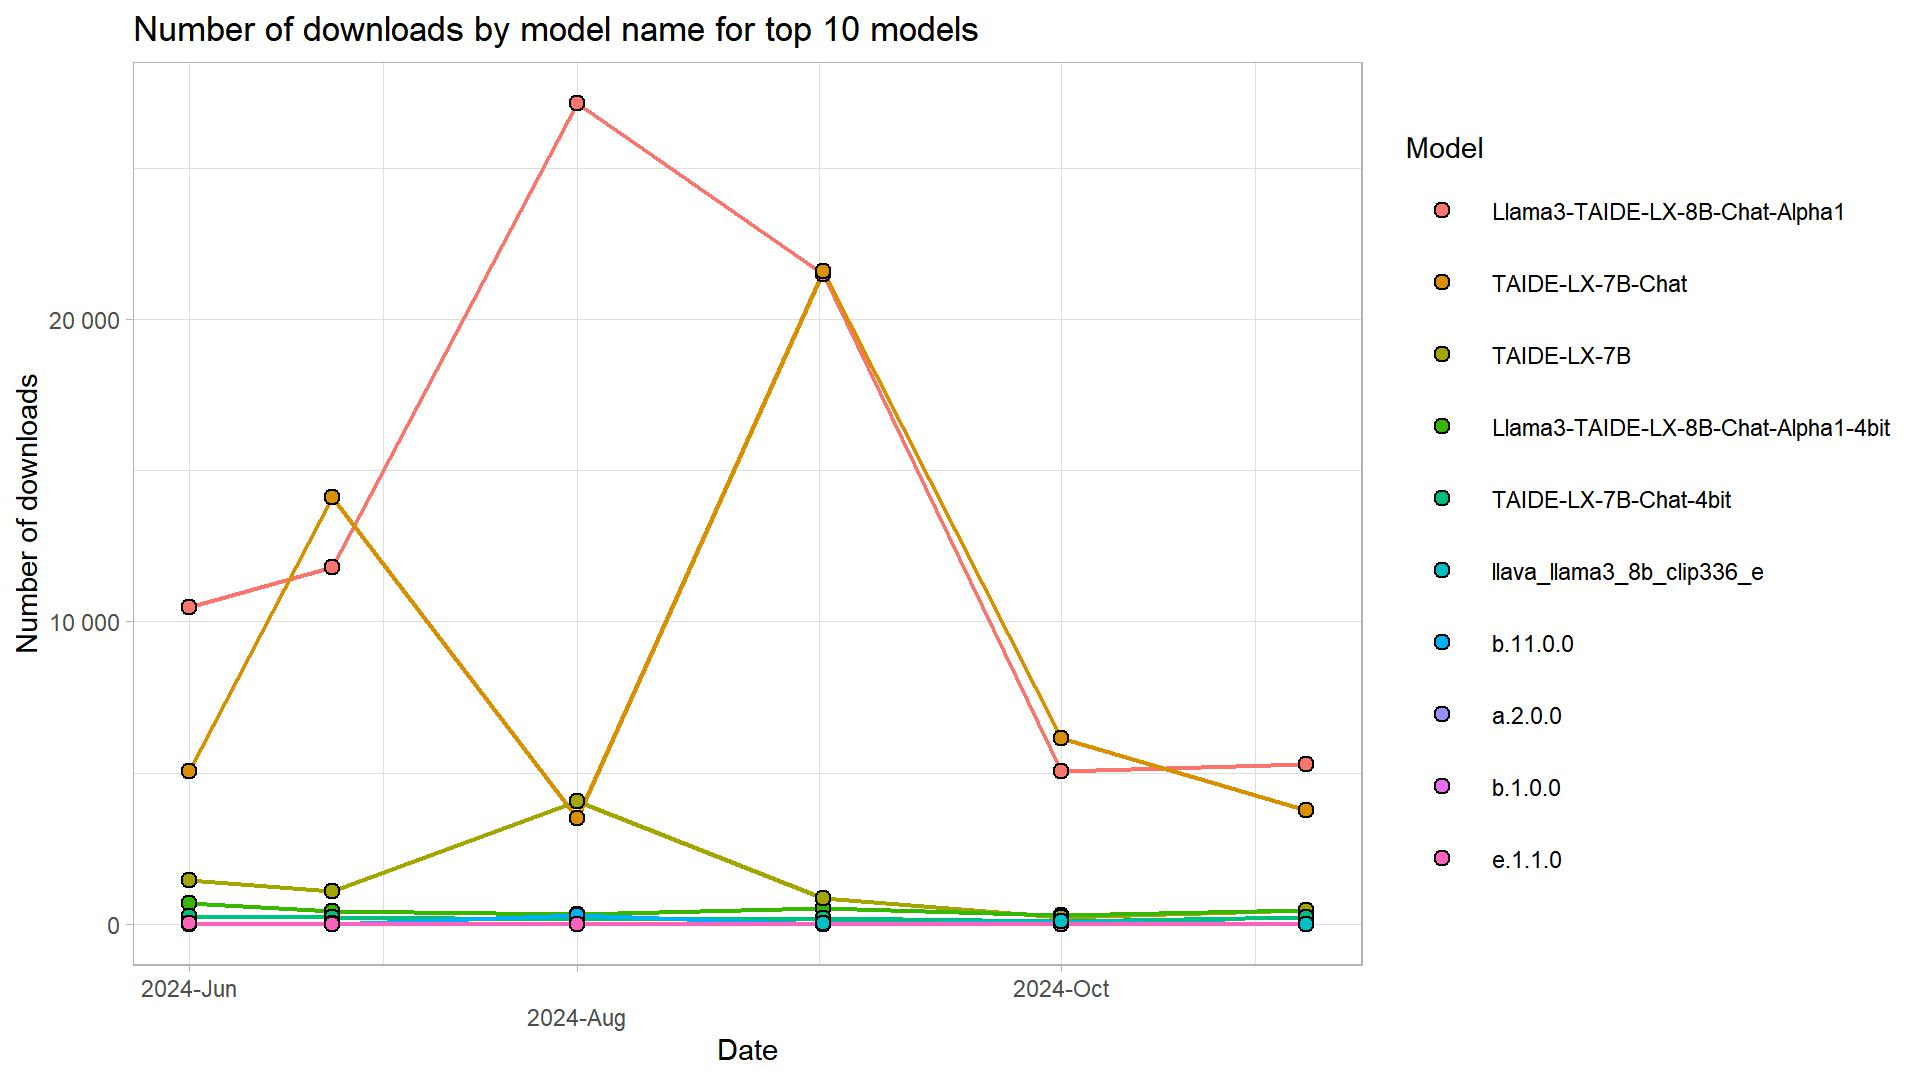
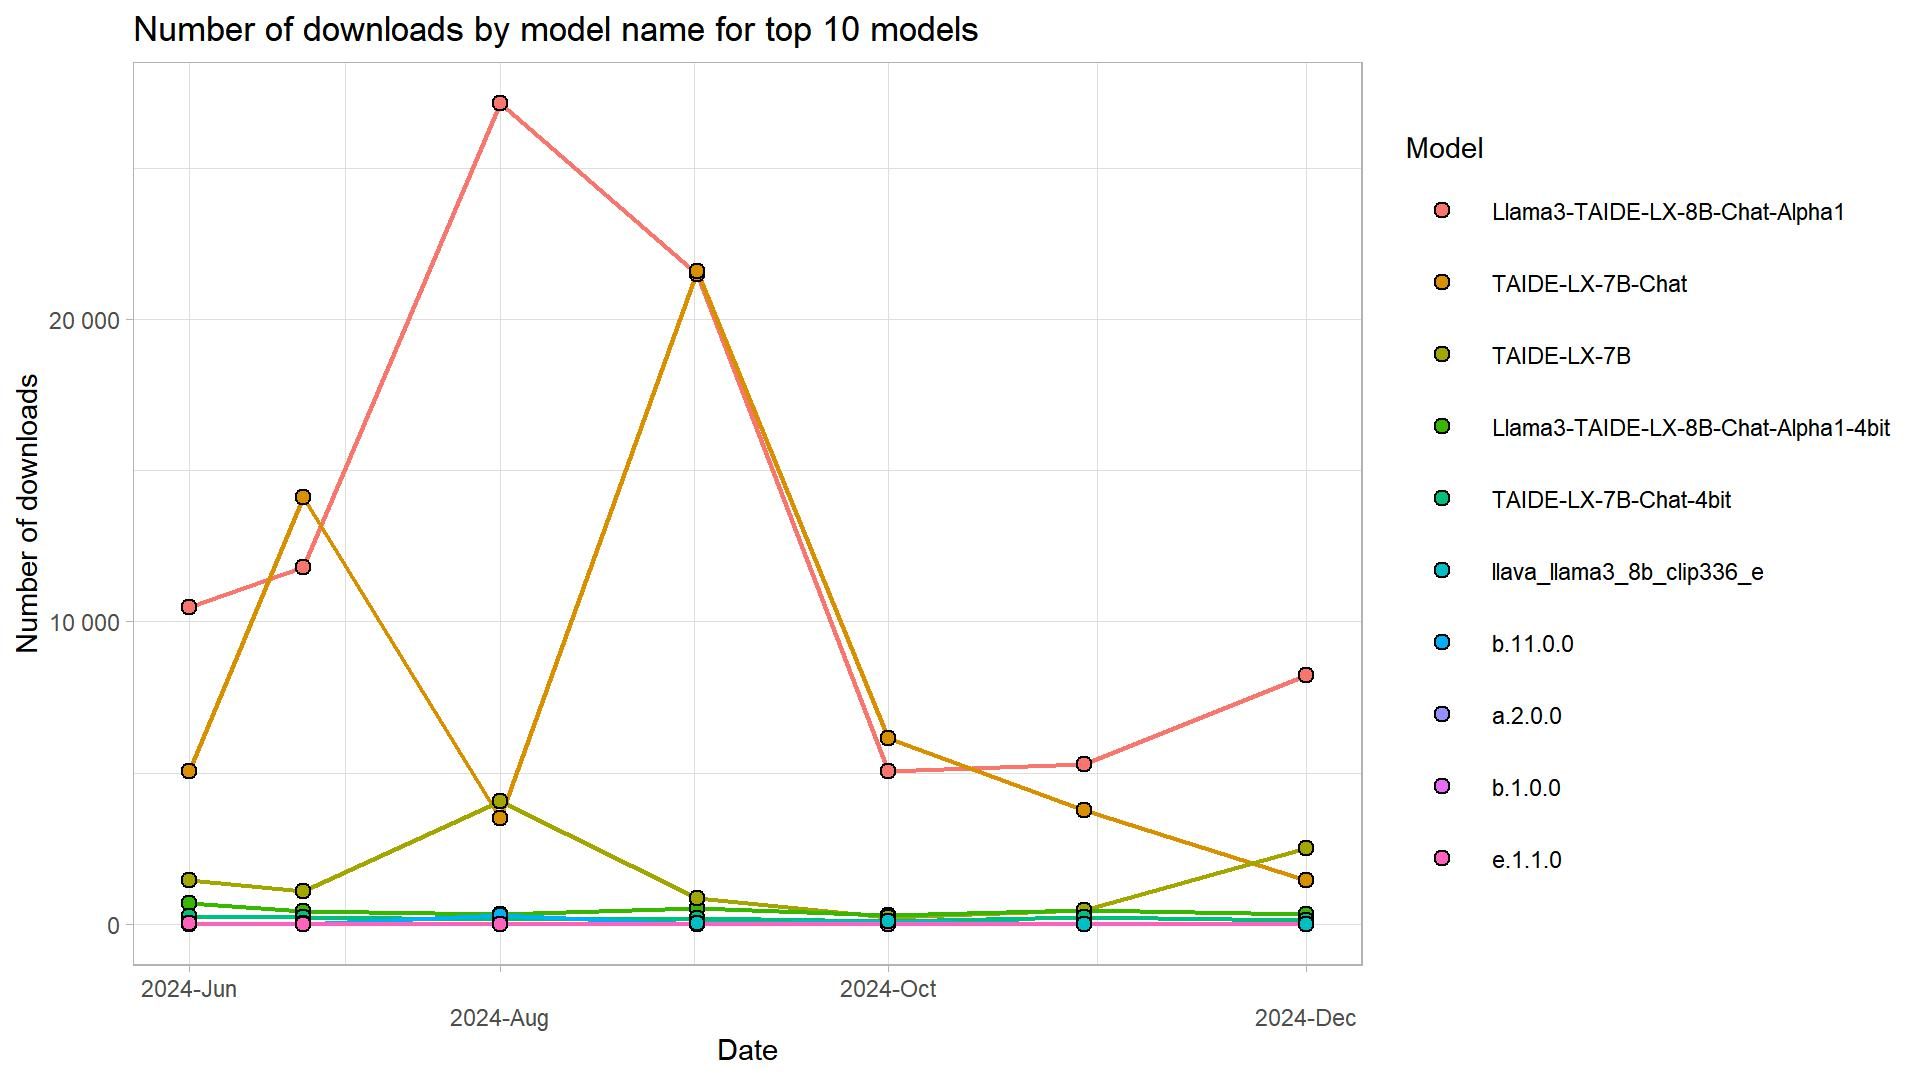
Update

diff --git a/README.md b/README.md
@@ -12,15 +12,15 @@ Script is run monthly, and a monthly `csv`-file outputted to `/data` folder.
 
 ## Table of downloads
 
-|model_name                          | downloadsAllTime| 2024-06| 2024-07| 2024-08| 2024-09| 2024-10| 2024-11|
-|:-----------------------------------|----------------:|-------:|-------:|-------:|-------:|-------:|-------:|
-|Llama3-TAIDE-LX-8B-Chat-Alpha1      |            88912|   10491|   11808|   27164|   21499|    5042|    5272|
-|TAIDE-LX-7B-Chat                    |            58339|    5059|   14122|    3495|   21600|    6130|    3774|
-|TAIDE-LX-7B                         |             9268|    1454|    1098|    4063|     860|     215|     463|
-|Llama3-TAIDE-LX-8B-Chat-Alpha1-4bit |             3748|     671|     412|     324|     527|     301|     444|
-|TAIDE-LX-7B-Chat-4bit               |             2151|     259|     208|     148|     194|     107|     217|
-|b.11.0.0                            |             1426|      36|       5|     302|       7|       0|       5|
-|b.1.0.0                             |              828|       0|      15|       0|       0|       0|       0|
-|a.2.0.0                             |              131|      24|       0|       0|       0|       0|       0|
-|llava_llama3_8b_clip336_e           |              115|      NA|      NA|      NA|      34|      81|       0|
-|e.1.1.0                             |               69|      14|       0|       5|       0|       0|       0|
+|model_name                          | downloadsAllTime| 2024-06| 2024-07| 2024-08| 2024-09| 2024-10| 2024-11| 2024-12|
+|:-----------------------------------|----------------:|-------:|-------:|-------:|-------:|-------:|-------:|-------:|
+|Llama3-TAIDE-LX-8B-Chat-Alpha1      |            97739|   10491|   11808|   27164|   21499|    5042|    5272|    8215|
+|TAIDE-LX-7B-Chat                    |            59907|    5059|   14122|    3495|   21600|    6130|    3774|    1455|
+|TAIDE-LX-7B                         |            11854|    1454|    1098|    4063|     860|     215|     463|    2491|
+|Llama3-TAIDE-LX-8B-Chat-Alpha1-4bit |             4097|     671|     412|     324|     527|     301|     444|     312|
+|TAIDE-LX-7B-Chat-4bit               |             2303|     259|     208|     148|     194|     107|     217|     135|
+|b.11.0.0                            |             1426|      36|       5|     302|       7|       0|       5|       0|
+|b.1.0.0                             |              828|       0|      15|       0|       0|       0|       0|       0|
+|a.2.0.0                             |              131|      24|       0|       0|       0|       0|       0|       0|
+|llava_llama3_8b_clip336_e           |              115|      NA|      NA|      NA|      34|      81|       0|       0|
+|e.1.1.0                             |               69|      14|       0|       5|       0|       0|       0|       0|
